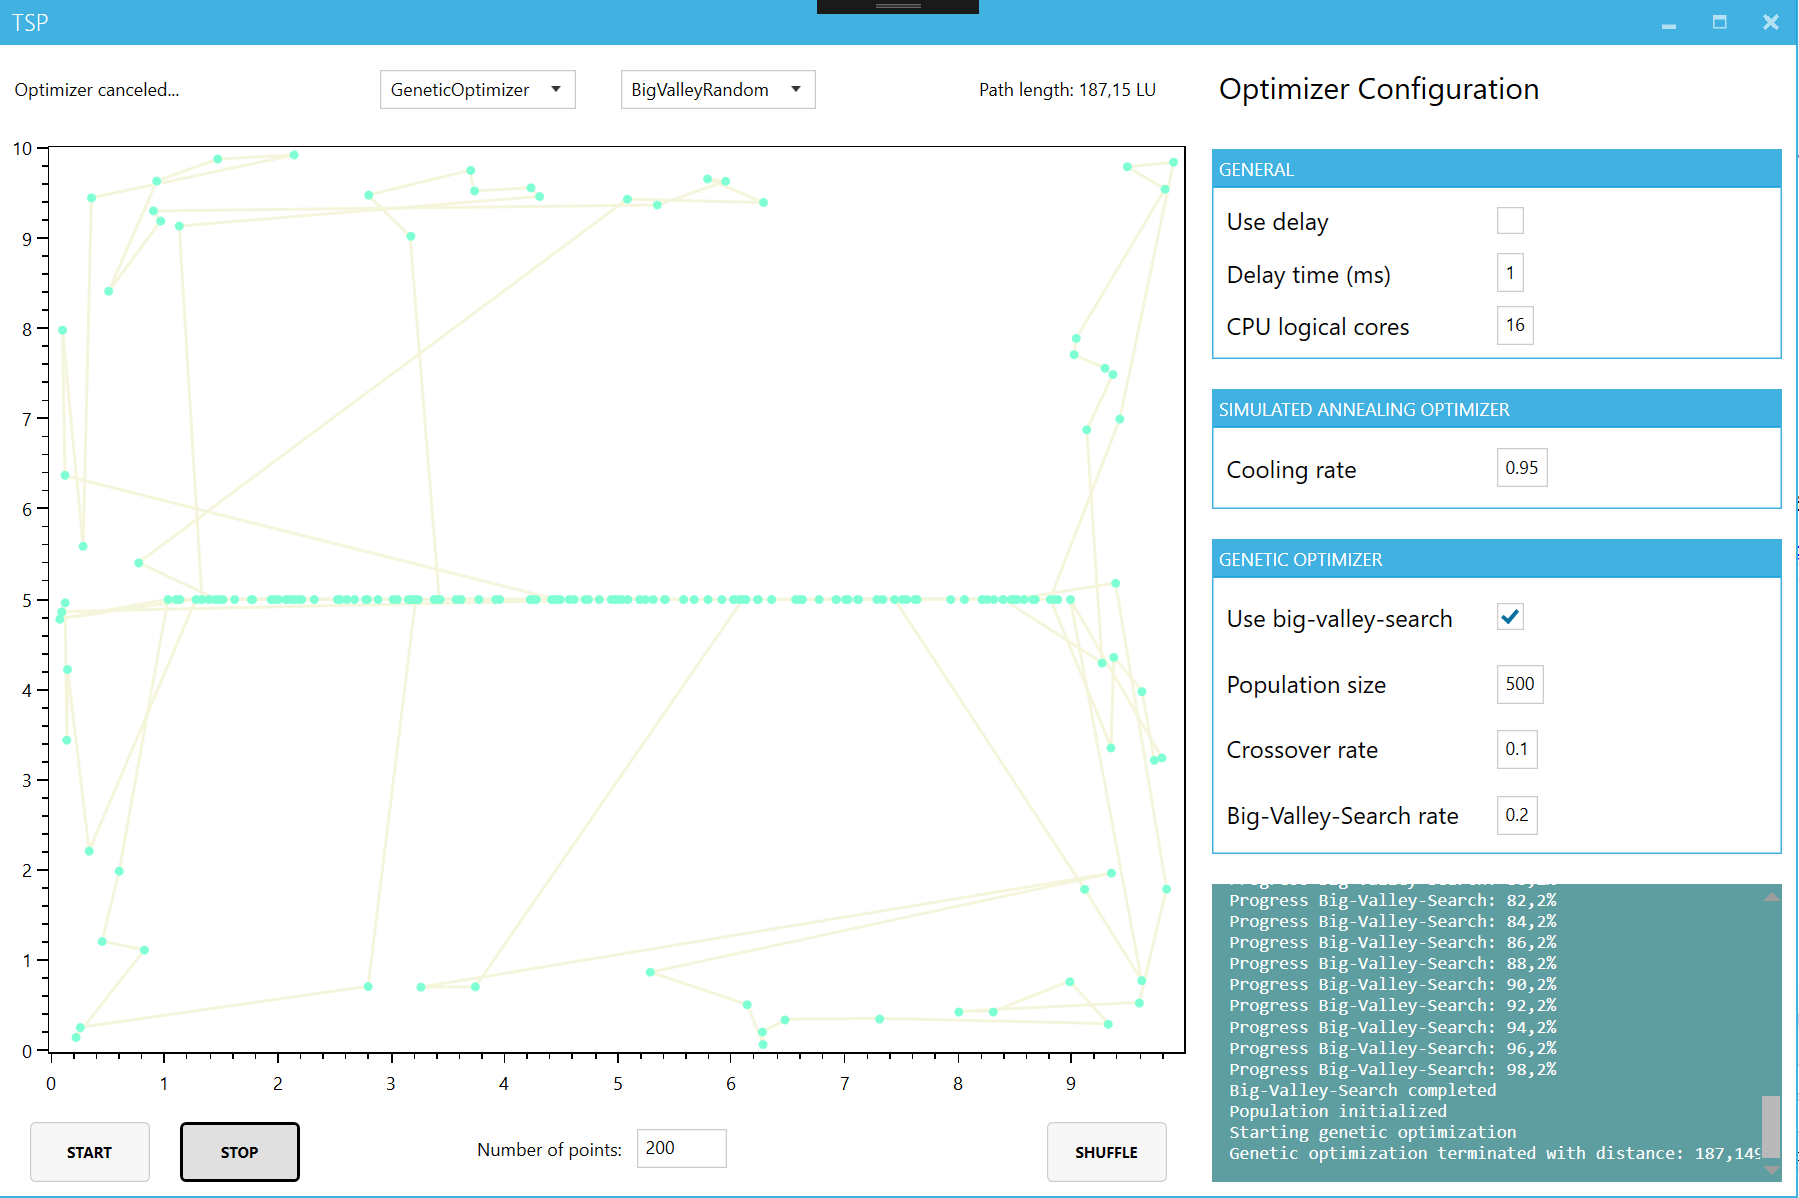
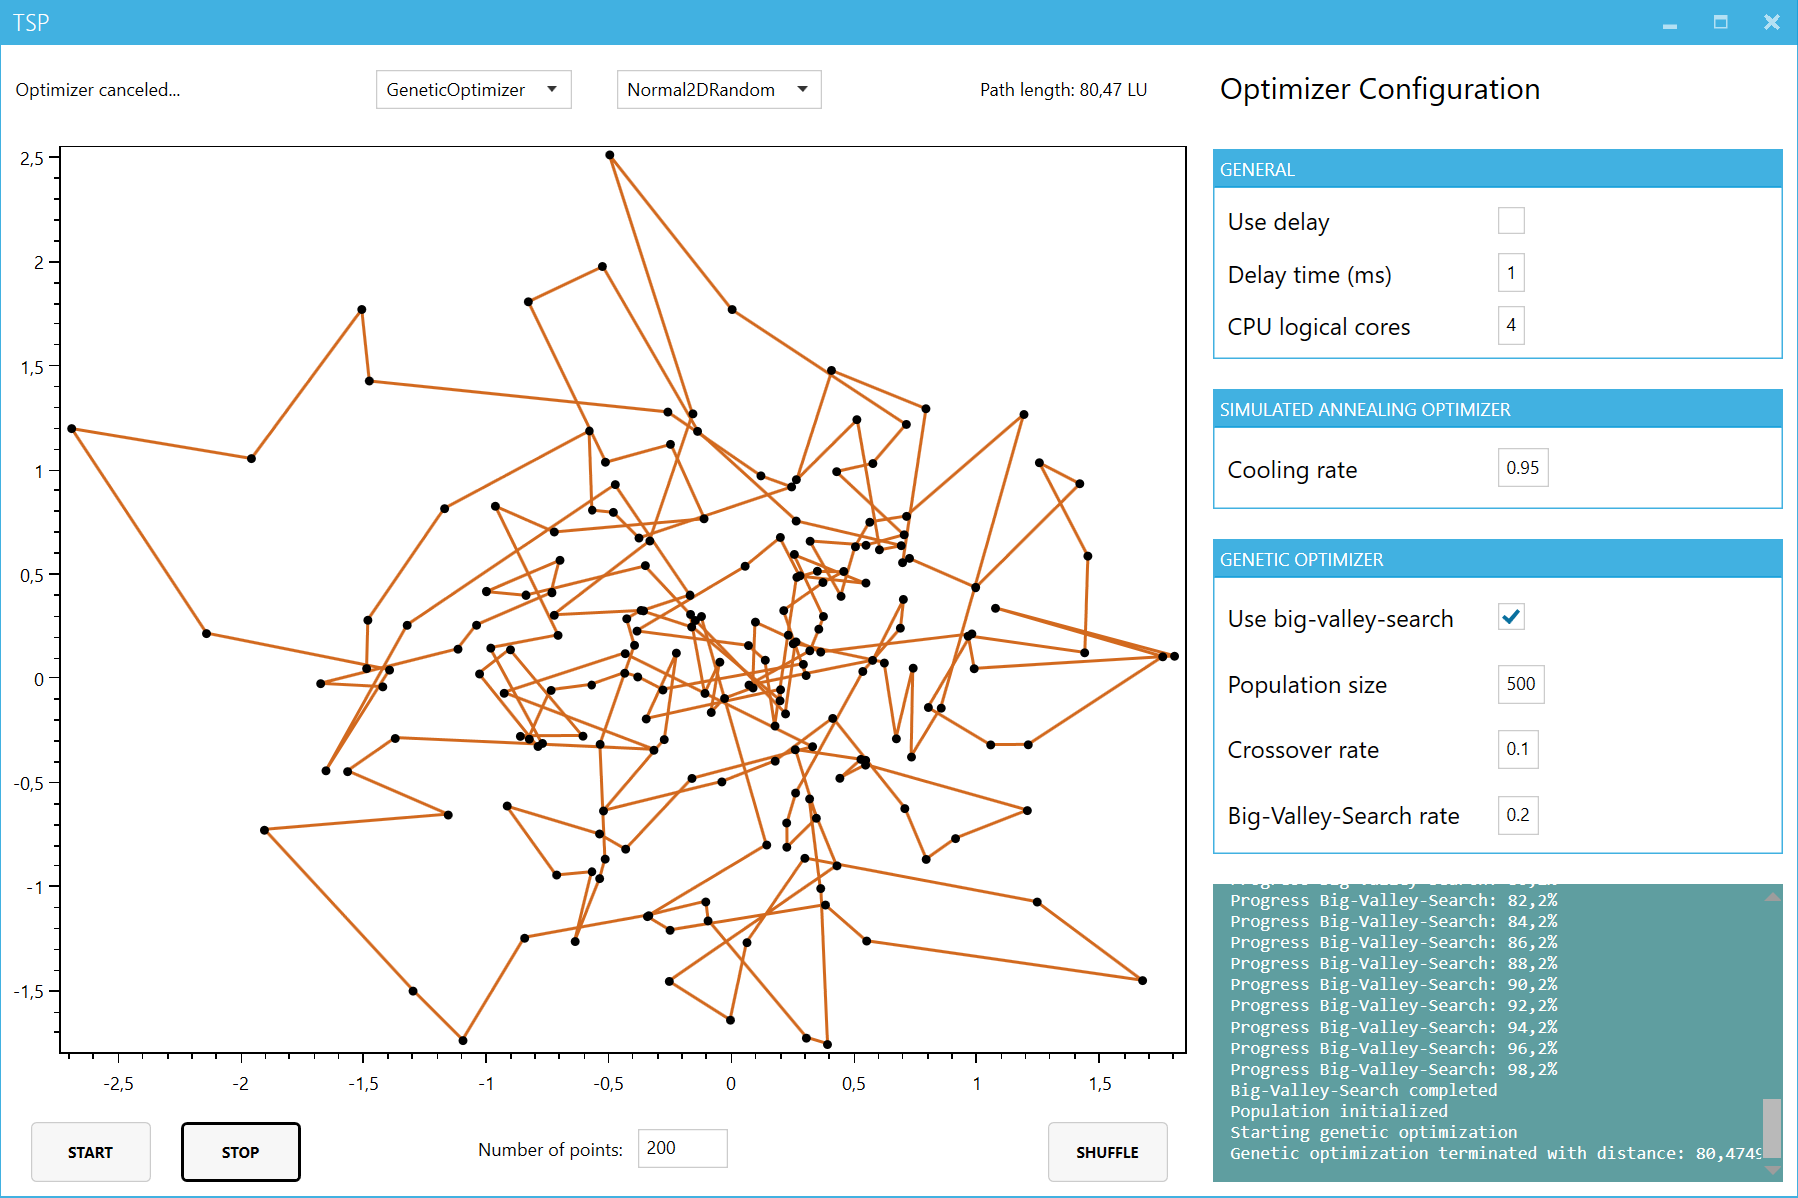
Changed line and point color

diff --git a/Visualizer/TravellingSalesmanProblemView.xaml b/Visualizer/TravellingSalesmanProblemView.xaml
@@ -99,7 +99,7 @@
             </StackPanel>
             <Label VerticalAlignment="Center" Width="150" HorizontalAlignment="Right" FontSize="12" Content="{Binding Path=PathLength}" Grid.Row="0"></Label>
             <oxy:Plot Title="{Binding PlotTitle}" Grid.Row="1">
-                <oxy:LineSeries Color="Beige" MarkerFill="Aquamarine" MarkerType="Circle" ItemsSource="{Binding Path=CurrentPath}" DataFieldX="X" DataFieldY="Y" />
+                <oxy:LineSeries Color="Chocolate" MarkerFill="Black" MarkerType="Circle" ItemsSource="{Binding Path=CurrentPath}" DataFieldX="X" DataFieldY="Y" />
             </oxy:Plot>
             <Grid Grid.Row="2">
                 <Button IsEnabled="{Binding StartButtonEnable}" Margin="20 0 0 0" Width="80" Height="40" HorizontalAlignment="Left" Content="Start" Command="{Binding StartPathOptimizationCommand}" />
